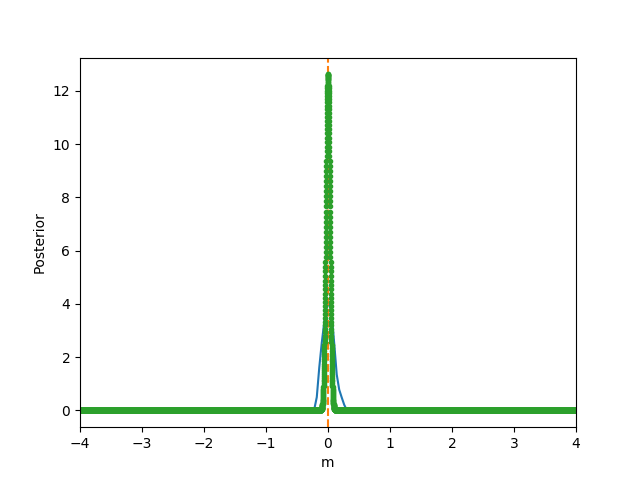
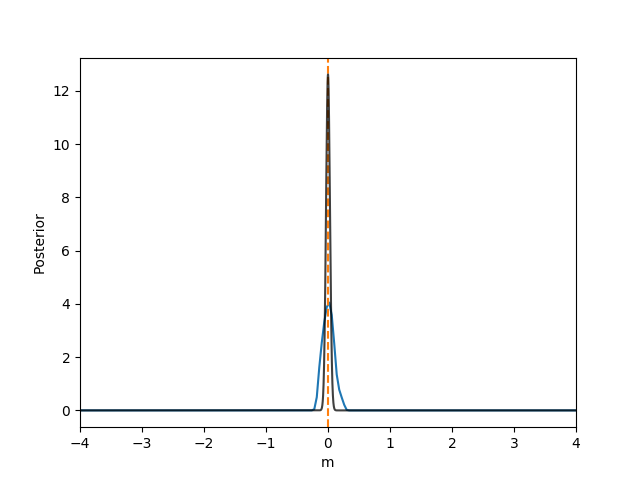
edit normal

Changed region(s): [[0.125, 0.1562, 0.9062, 0.875]]

diff --git a/pyabc_tests/normal/model.py b/pyabc_tests/normal/model.py
@@ -12,7 +12,7 @@ import os
 # noise
 std = 1
 # number of replicates
-n_r = 1000
+n_r = 100
 
 
 def model(th):
@@ -79,7 +79,7 @@ def visualize(label, history, show_true=True):
         ys = []
         for x in xs:
             ys.append(pdf(x))
-        ax.plot(xs, ys, '.', color='C2')
+        ax.plot(xs, ys, '-', color='k', alpha=0.75)
 
     plt.savefig(label + "_kde_1d_" + str(t) + ".png")
     plt.close()

diff --git a/pyabc_tests/normal/test2.py b/pyabc_tests/normal/test2.py
@@ -10,5 +10,5 @@ abc = pyabc.ABCSMC(models=model,
                    sampler=sampler)
 abc.new(db=db_file, observed_sum_stat=sumstat_samplemean_obs)
 h = abc.run(minimum_epsilon=0, max_nr_populations=max_nr_populations)
-
+#h = pyabc.History(db_file)
 visualize("pic2", h)

diff --git a/pyabc_tests/normal/test1.py b/pyabc_tests/normal/test1.py
@@ -10,5 +10,5 @@ abc = pyabc.ABCSMC(models=model,
                    sampler=sampler)
 abc.new(db=db_file, observed_sum_stat=sumstat_all_obs)
 h = abc.run(minimum_epsilon=0, max_nr_populations=max_nr_populations)
-
+#h = pyabc.History(db_file)
 visualize("pic1", h)
